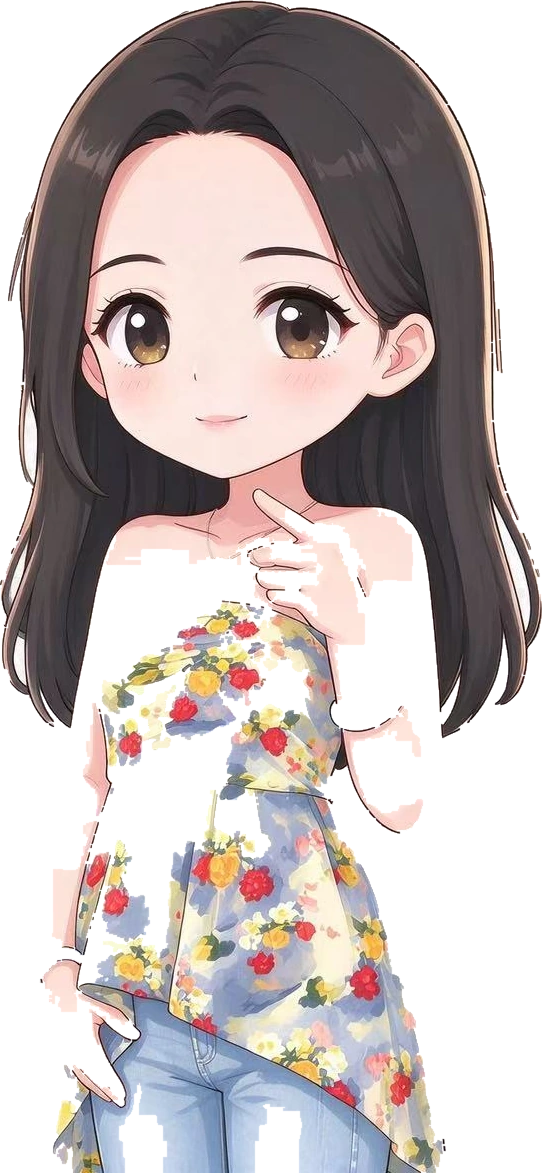
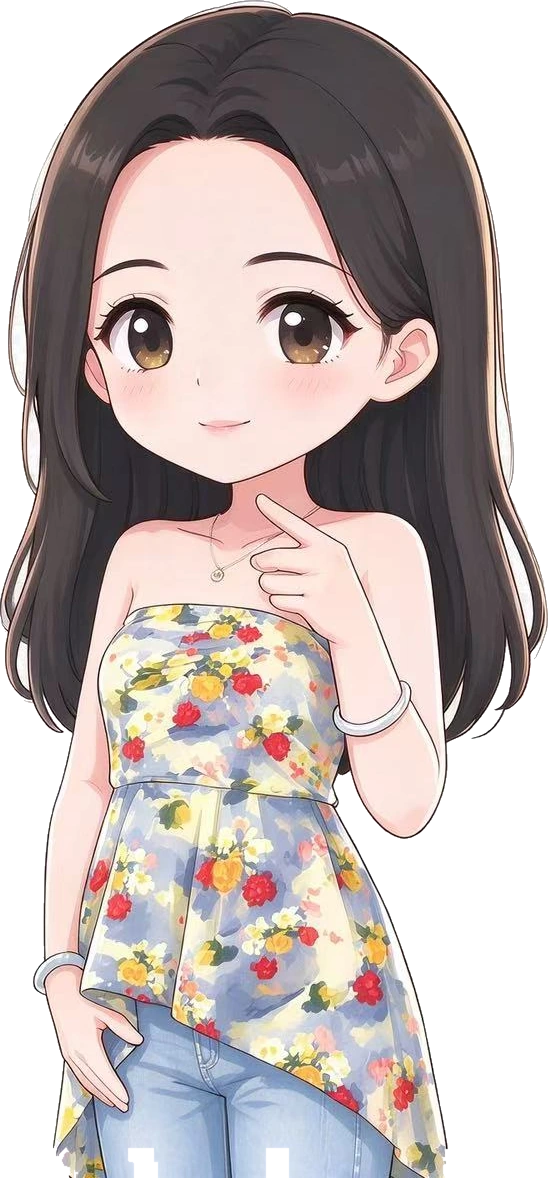
fix: 修复立绘身体空缺，OG 卡人物完整入框
- 白裙与背景同色，纯阈值抠图会漏掉裙子/手臂/牛仔裤部分 -> 改用 GrabCut（颜色模型 + 空间连续性），再填内部空洞
- 修复后各区域不透明度：白裙 97.8%、牛仔裤 94.7%、手臂 100%，无空缺
- OG 分享卡人物改为完整入框（height 592px, bottom 0），不再被卡片边缘裁掉

diff --git a/index.html b/index.html
@@ -638,7 +638,7 @@ footer{border-top:1px solid var(--line);padding:30px 0;color:var(--ink-3);font-s
       </div>
     </div>
     <figure class="hero-figure">
-      <img src="assets/hero-char.webp" alt="周冰红的动漫形象" width="542" height="1173" fetchpriority="high">
+      <img src="assets/hero-char.webp" alt="周冰红的动漫形象" width="548" height="1178" fetchpriority="high">
     </figure>
   </div>
   <div class="wrap hero-kpis">
